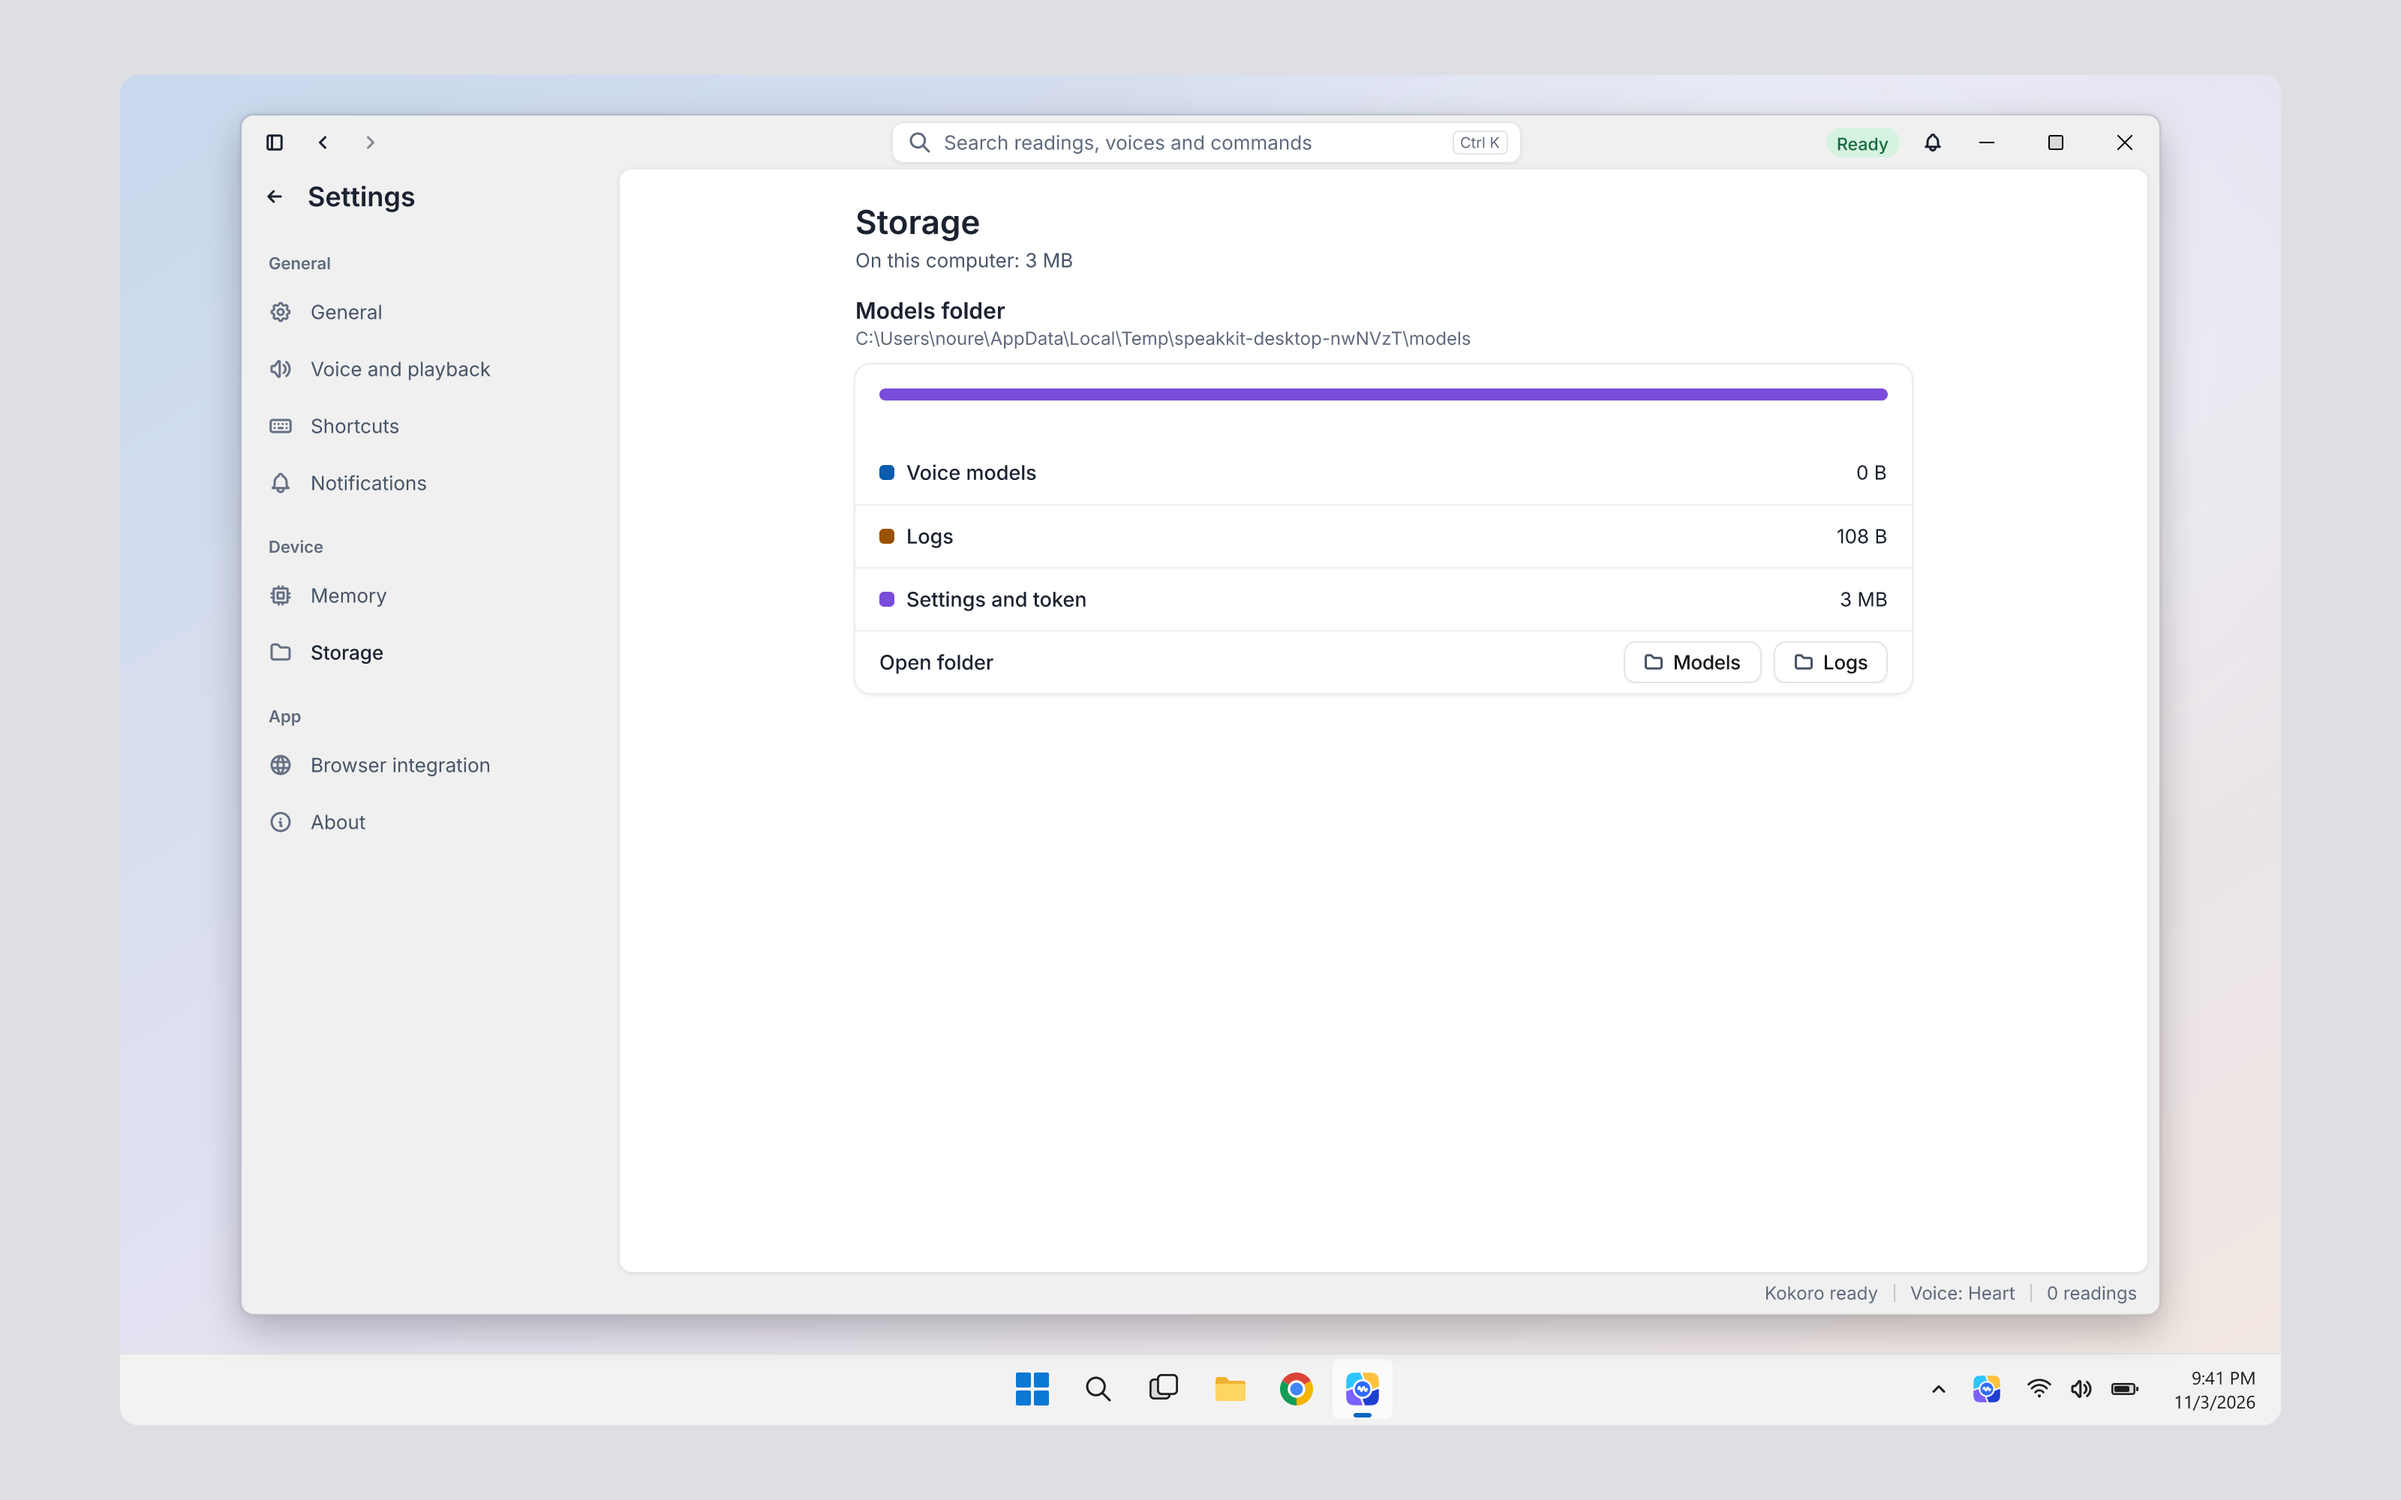
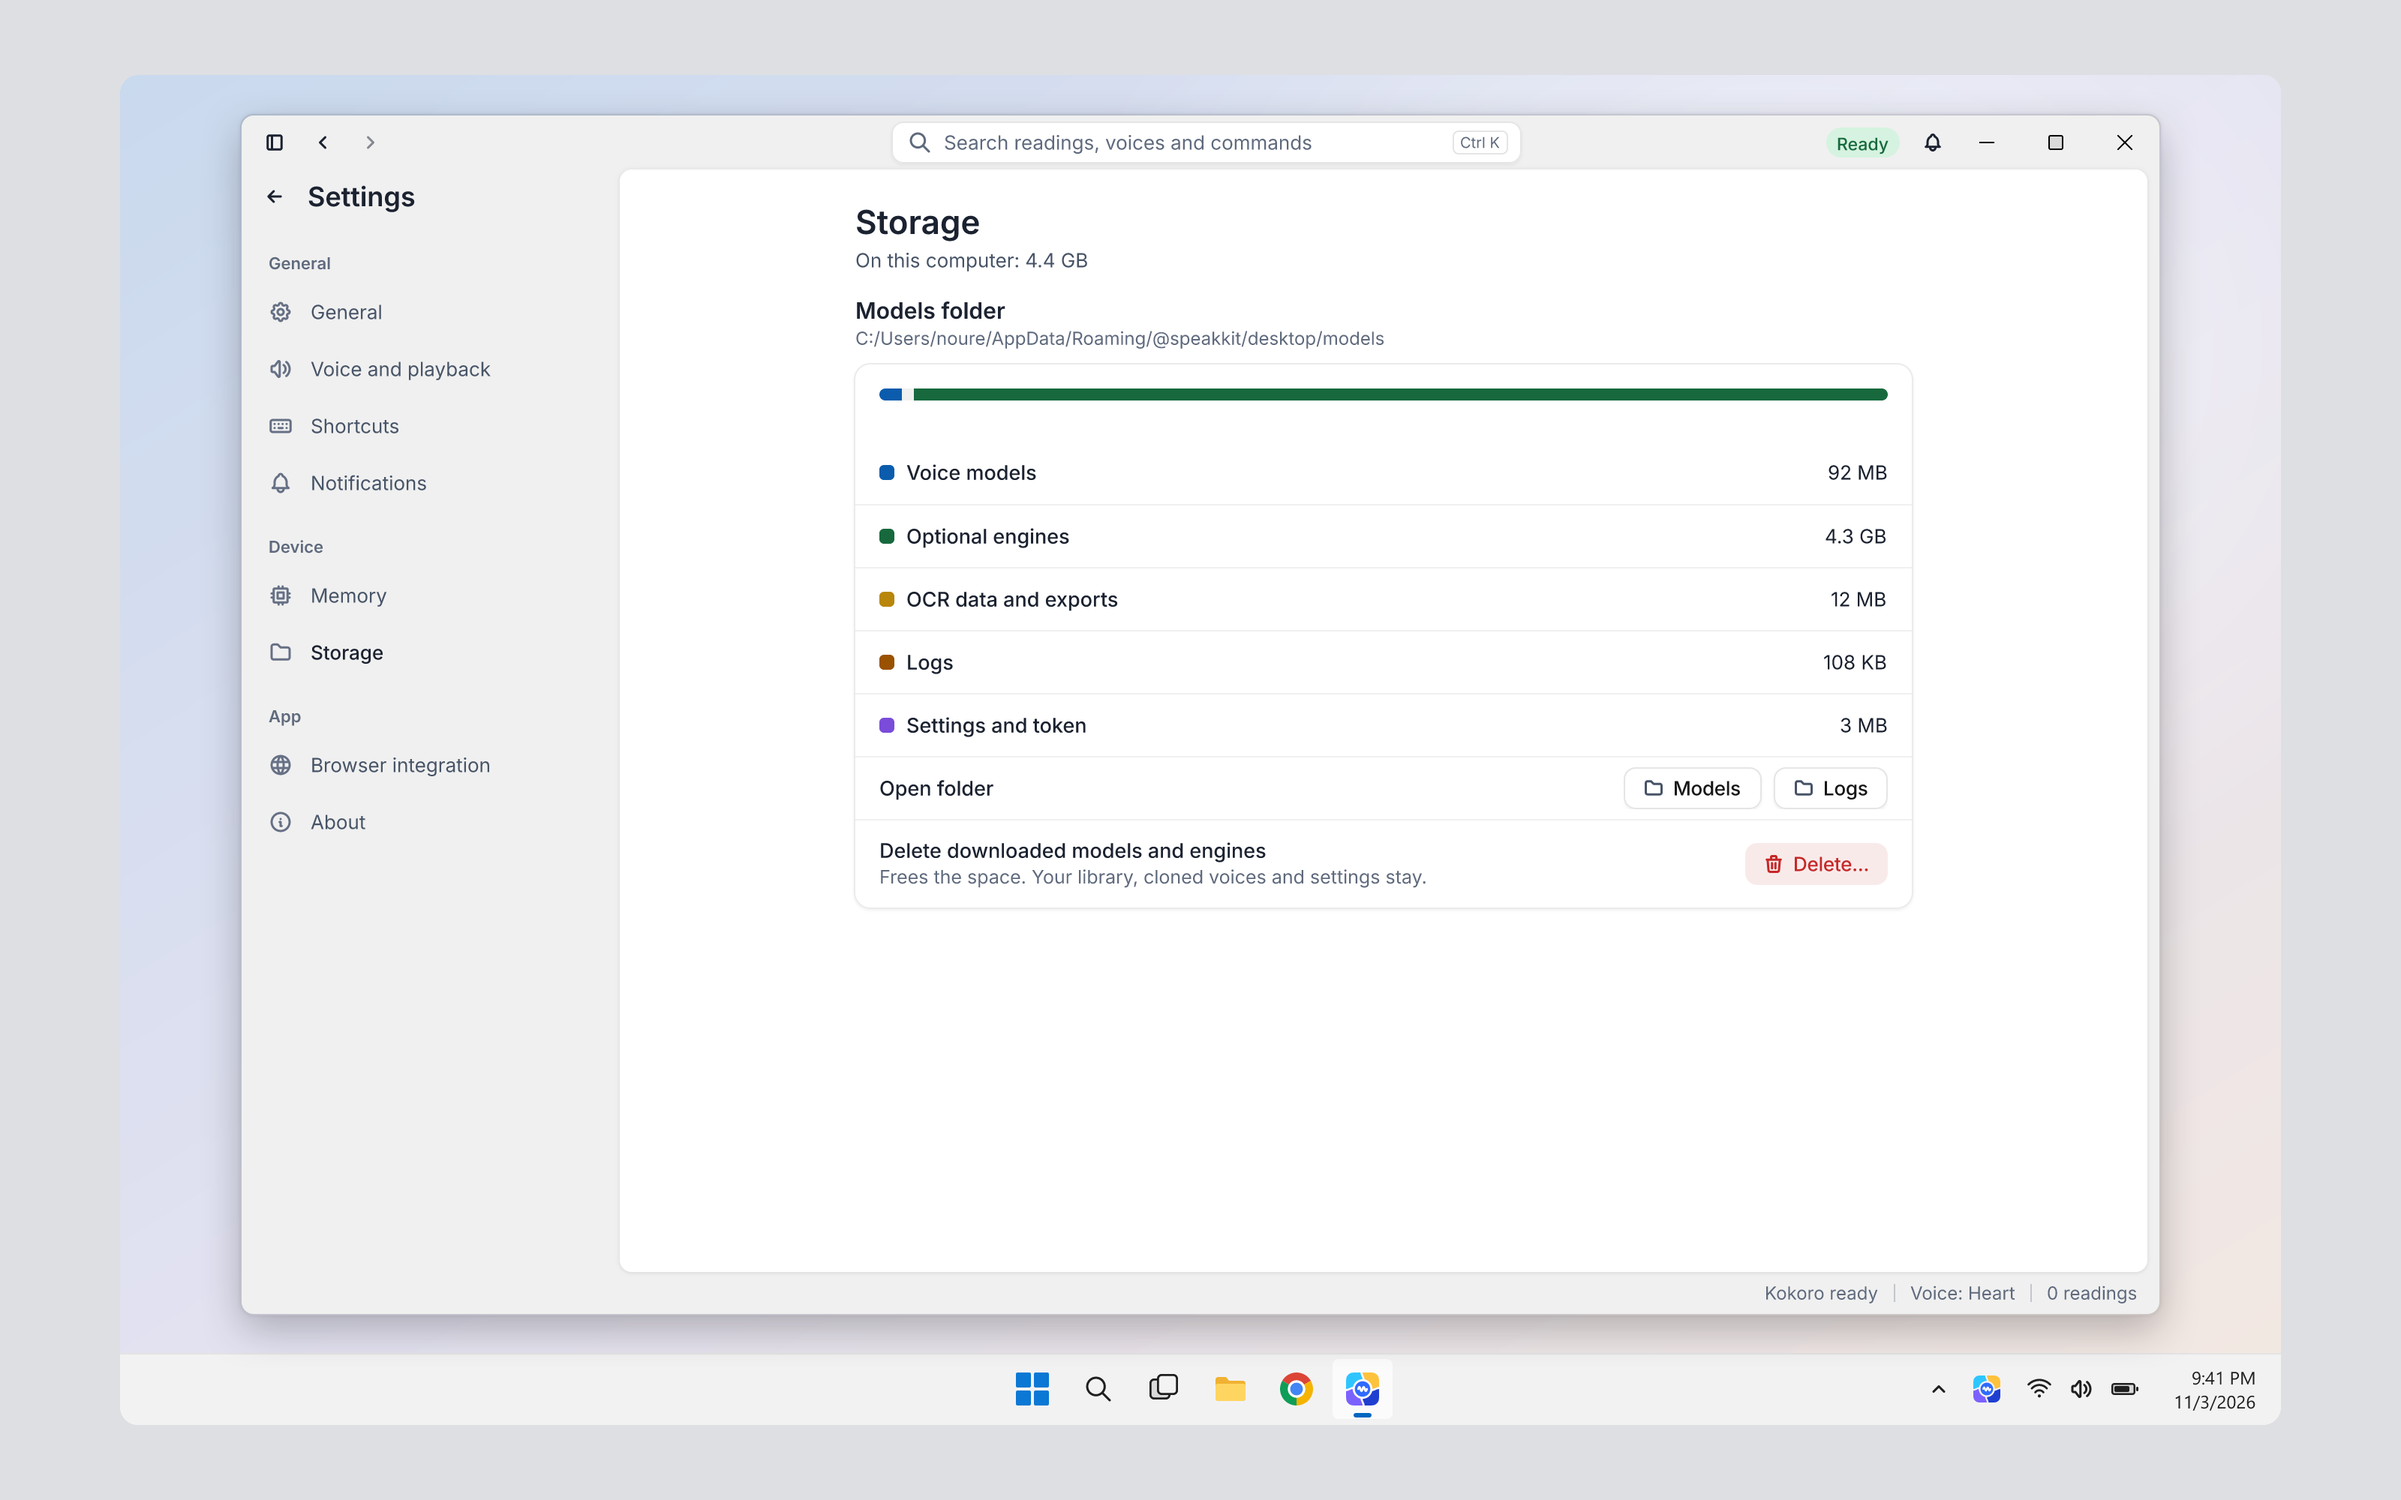
feat(design): H6 storage with engines row and delete action, new H6b confirm dialog
Design: H6b

diff --git a/designs/gen/s_v_settings.ts b/designs/gen/s_v_settings.ts
@@ -9,7 +9,7 @@ import { S } from "./types";
 const C = {
   win: "#F0F0F0", ink: "#1B2230", sec: "#475467", ter: "#5F6A7D", ph: "#6B7280", ctl: "#E5E5E5", fld: "#C3C6CC", div: "#EBEBEB", hair: "#F0F0F0",
   cta: "#201E25", ctaTx: "#FAFAFA", acc: "#0069CC", icon: "#667085", label: "#171717", raised: "#F7F8FA", red: "#C62828",
-  green: "#17693D", chipG: "#D5F3E0", blue: "#0B5CAD", chipB: "#DAEFFE", orange: "#9A5200", chipO: "#FFEBCF", chipGray: "#F0F0F0", purple: "#7A4CD9", dotOrange: "#FD9812",
+  green: "#17693D", chipG: "#D5F3E0", blue: "#0B5CAD", chipB: "#DAEFFE", orange: "#9A5200", chipO: "#FFEBCF", chipGray: "#F0F0F0", purple: "#7A4CD9", dotOrange: "#FD9812", dotYellow: "#B8860B",
 };
 type W = "Regular" | "Medium" | "SemiBold";
 
@@ -241,17 +241,21 @@ const shortcuts = (b: B, mode: "idle" | "record" | "conflict") => (c0: Ref) => {
     row(b, c, "New reading", undefined, (f) => keys(b, f, ["Ctrl", "N"]), { sep: true });
   });
 };
-const storage = (c0: Ref, b: B) => section(b, c0, "Models folder", "C:\\Users\\noure\\AppData\\Local\\Temp\\speakkit-desktop-nwNVzT\\models", (c) => {
+const storage = (c0: Ref, b: B) => section(b, c0, "Models folder", "C:/Users/noure/AppData/Roaming/@speakkit/desktop/models", (c) => {
   const p = pad(b, c);
   b.frame(p, { w: 1, h: 2 });
-  const bar = b.row(p, { w: "fill", h: 8, r: 4, fill: C.hair, clip: true }); b.rect(bar, { w: "fill", h: 8, fill: C.purple });
+  const bar = b.row(p, { w: "fill", h: 8, r: 4, fill: C.hair, clip: true });
+  [[C.blue, 15], [C.green, 690], [C.dotYellow, 2], [C.orange, 1]].forEach(([fill, w]) => b.rect(bar, { w: w as number, h: 8, fill: fill as string })); b.rect(bar, { w: "fill", h: 8, fill: C.purple });
   b.frame(p, { w: 1, h: 13 }); // margin under the bar
   b.frame(p, { w: 1, h: 0 });
   const sw = (col: string, name: string) => (l: Ref) => { b.rect(l, { w: 10, h: 10, r: 3, fill: col }); b.frame(l, { w: 8, h: 1 }); tx(b, l, name, { size: 13.5, w: "Medium", lh: 16 }); };
-  row(b, c, sw(C.blue, "Voice models"), undefined, (f) => tx(b, f, "0 B", { lh: 16 }));
-  row(b, c, sw(C.orange, "Logs"), undefined, (f) => tx(b, f, "108 B", { lh: 16 }), { sep: true });
+  row(b, c, sw(C.blue, "Voice models"), undefined, (f) => tx(b, f, "92 MB", { lh: 16 }));
+  row(b, c, sw(C.green, "Optional engines"), undefined, (f) => tx(b, f, "4.3 GB", { lh: 16 }), { sep: true });
+  row(b, c, sw(C.dotYellow, "OCR data and exports"), undefined, (f) => tx(b, f, "12 MB", { lh: 16 }), { sep: true });
+  row(b, c, sw(C.orange, "Logs"), undefined, (f) => tx(b, f, "108 KB", { lh: 16 }), { sep: true });
   row(b, c, sw(C.purple, "Settings and token"), undefined, (f) => tx(b, f, "3 MB", { lh: 16 }), { sep: true });
   row(b, c, "Open folder", undefined, (f) => acts(b, f, (a) => { btn(b, a, "Models", { sz: "sm", icon: "folder" }); btn(b, a, "Logs", { sz: "sm", icon: "folder" }); }), { sep: true });
+  row(b, c, "Delete downloaded models and engines", "Frees the space. Your library, cloned voices and settings stay.", (f) => btn(b, f, "Delete...", { v: "danger", sz: "sm", icon: "trash" }), { sep: true });
 });
 const memory = (unloaded: boolean) => (c0: Ref, b: B) => {
   section(b, c0, "Right now", undefined, (c) => {
@@ -330,6 +334,24 @@ const updatingCard = (b: B, c: Ref, h: number) => {
   const tr = b.frame(f, { w: "fill", h: 3, r: 999, fill: C.hair, clip: true }); b.rect(tr, { x: 198, y: 0, w: 42, h: 3, r: 999, fill: C.acc });
 };
 
+/** Confirmation before the downloads are deleted (apps/desktop DeleteDownloadsDialog): sizes first, library and cloned voices stay. */
+const deleteDialog = (b: B, c: Ref) => {
+  const t = LIGHT;
+  b.rect(c, { x: 0, y: 0, w: 1278, h: 799, fill: t.overlay });
+  const rows: [string, string][] = [["Voice models", "92 MB"], ["Optional engines", "4.3 GB"], ["OCR language data and exports", "12 MB"]];
+  const mh = 154 + 20 + rows.length * 41;
+  const m = b.col(c, { name: "Delete downloads dialog", x: 399, y: Math.round((799 - mh) / 2), w: 480, h: mh, pad: [0, 16, 15, 16], gap: 0, r: 16, fill: t.surface, shadow: "dlg" });
+  const hd = b.row(m, { w: "fill", h: 49 }); b.text(hd, "Delete downloaded models and engines?", { size: 15, weight: "SemiBold", c: t.text, w: "fill", lh: 20 });
+  const x = b.frame(hd, { w: 24, h: 24, r: 6, layout: "horizontal", align: "center", justify: "center" }); b.icon(x, "x", 12, t.text);
+  b.text(m, "These files are deleted from this computer. Your library, cloned voices and settings stay.", { size: 14, c: t.text2, w: "fill", lh: 20 });
+  b.frame(m, { w: 1, h: 13 });
+  const l = b.col(m, { w: "fill", r: 10, stroke: t.border, sw: 1, sa: "inside", gap: 0, clip: true });
+  rows.forEach(([a, d], i) => { if (i) b.rect(l, { w: "fill", h: 1, fill: t.border }); const r = b.row(l, { w: "fill", pad: [12, 12], justify: "spaceBetween" }); b.text(r, a, { size: 14, c: t.text3, lh: 18 }); b.text(r, d, { size: 12, c: t.text2, lh: 18 }); });
+  b.frame(m, { w: 1, h: 21 });
+  const ft = b.row(m, { w: "fill", gap: 8 }); K.btn(b, t, ft, "Cancel", { v: "secondary" }); b.frame(ft, { w: "fill", h: 1 });
+  const q = b.row(ft, { h: 36, pad: [0, 14], r: 8, fill: "#F9E9E9" }); b.text(q, "Delete", { size: 13, weight: "Medium", c: t.err, lh: 16 });
+};
+
 const FIRST = "Global shortcuts work in any app. Click a shortcut, then press the new keys.";
 export const SETTINGS_FRAMES: S[] = [
   settings("H1", "Settings · General", "Startup, language, tray and privacy on one page.", "general", 799, {}, { title: "General", lead: "Startup, language and notifications." }, pg(general)),
@@ -338,7 +360,8 @@ export const SETTINGS_FRAMES: S[] = [
   settings("H5", "Settings · Shortcuts", "Global Ctrl+Alt shortcuts with Change, Reset all, and the in-app keys.", "shortcuts", 799, {}, { title: "Shortcuts", lead: FIRST }, (c) => shortcuts(curB!, "idle")(c)),
   settings("H11", "Settings · Shortcuts (recording a key)", "Capture state: Press new keys, Esc to cancel.", "shortcuts", 798, {}, { title: "Shortcuts", lead: FIRST }, (c) => shortcuts(curB!, "record")(c)),
   settings("H16", "Settings · Shortcuts (conflict)", "A conflict names the other app and offers one alternative, never a silent override.", "shortcuts", 798, {}, { title: "Shortcuts", lead: FIRST }, (c) => shortcuts(curB!, "conflict")(c)),
-  settings("H6", "Settings · Storage", "Usage bar with legend, per-folder sizes and Open folder buttons.", "storage", 799, {}, { title: "Storage", lead: "On this computer: 3 MB" }, pg(storage)),
+  settings("H6", "Settings · Storage", "Usage bar with legend, per-folder sizes, Open folder buttons and Delete downloaded models and engines.", "storage", 799, {}, { title: "Storage", lead: "On this computer: 4.4 GB" }, pg(storage)),
+  settings("H6b", "Settings · Storage (confirm delete)", "Delete downloaded models and engines asks first with the size of each part; the library, cloned voices and settings stay.", "storage", 799, {}, { title: "Storage", lead: "On this computer: 4.4 GB" }, pg(storage), (b, c) => deleteDialog(b, c)),
   settings("H12", "Settings · Memory", "Live engine state, memory in use, idle unload, load at startup, battery saver.", "memory", 799, {}, { title: "Memory", lead: "The voice model uses several hundred MB while loaded. Speak Kit loads it when you play and unloads it when\nidle." }, pg(memory(false))),
   settings("H13", "Settings · Memory (engine unloaded)", "Same page with the engine asleep: 0 MB in memory, wakes on play, Load now.", "memory", 799, { status: ASLEEP, footer: ["Voice engine asleep", "Voice: Heart", "0 readings"] }, { title: "Memory", lead: "The voice model uses several hundred MB while loaded. Speak Kit loads it when you play and unloads it when\nidle." }, pg(memory(true))),
   settings("H14", "Settings · Notifications", "Do not disturb, and the Toast, Bell and Sound table per event. There is no row for the engine or model becoming ready: that never notifies.", "notifications", 799, {}, { title: "Notifications", lead: "A toast is a Windows notification. The bell is the list in the title bar. Clicking a toast opens the place it is about." }, pg(notifications)),

diff --git a/designs/gen/plan.ts b/designs/gen/plan.ts
@@ -55,7 +55,7 @@ export const PAGES: Pg[] = [
       { title: "Voice cloning", cover: "Chatterbox cloning flow, consent and failures", frames: [later("G3","design-only: voice cloning is not built (v1.1)"), later("G4","design-only: voice cloning is not built (v1.1)"), later("G5","design-only: voice cloning is not built (v1.1)"), later("G6","design-only: voice cloning is not built (v1.1)"), later("G7","design-only: voice cloning is not built (v1.1)"), later("G15","design-only: voice cloning is not built (v1.1)"), later("G11","design-only: voice cloning is not built (v1.1)"), later("G14","design-only: voice cloning is not built (v1.1)")] },
       { title: "Settings: general and playback", cover: "nav 248, search, groups of rows on a 760 px column", frames: [f("H1", "The arrow beside Settings closes Settings completely and returns to the page you came from; it never steps back through settings pages."), f("H2"), f("H3", "Out of scope for v1: no engine API for custom pronunciations (docs/scope.md). Design-only, not built.", { tag: "OUT OF SCOPE (v1)" }), f("H17", "The title-bar search opens the command palette, which finds every settings page.", { tag: "SUPERSEDED by L3", src: "L3" })] },
       { title: "Settings: browser and shortcuts", cover: "paired browsers, port, token, shortcut recording and conflicts", frames: [f("H4"), f("H21"), f("H5"), f("H11"), f("H16")] },
-      { title: "Settings: memory and performance", cover: "idle unload 1/5/15/never, load at startup, battery saver; storage", frames: [f("H12"), f("H13"), f("H20"), f("H6")] },
+      { title: "Settings: memory and performance", cover: "idle unload 1/5/15/never, load at startup, battery saver; storage", frames: [f("H12"), f("H13"), f("H20"), f("H6"), f("H6b")] },
       { title: "Settings: notifications and startup", cover: "event table, Do not disturb, sign-in start, tray behavior", frames: [f("H14"), f("H15", "Startup and tray settings live on the General page (H1).", { tag: "SUPERSEDED by H1", src: "H1" }), f("H7", "Appearance is the Language row on the General page (H1); there is no theme choice.", { tag: "SUPERSEDED by H1", src: "H1" })] },
       { title: "Updates and about", cover: "about, update available, update pill and popover, updating card", frames: [f("H8"), f("H9"), f("H23"), f("H18"), f("H22"), f("H19")] },
       { title: "Engine states", cover: "Unloaded, Loading, Ready across popup, pill, tray and sidebar", frames: [f("O1","design-only board: the states side by side, not a product screen"), f("O2"), f("O3")] },
